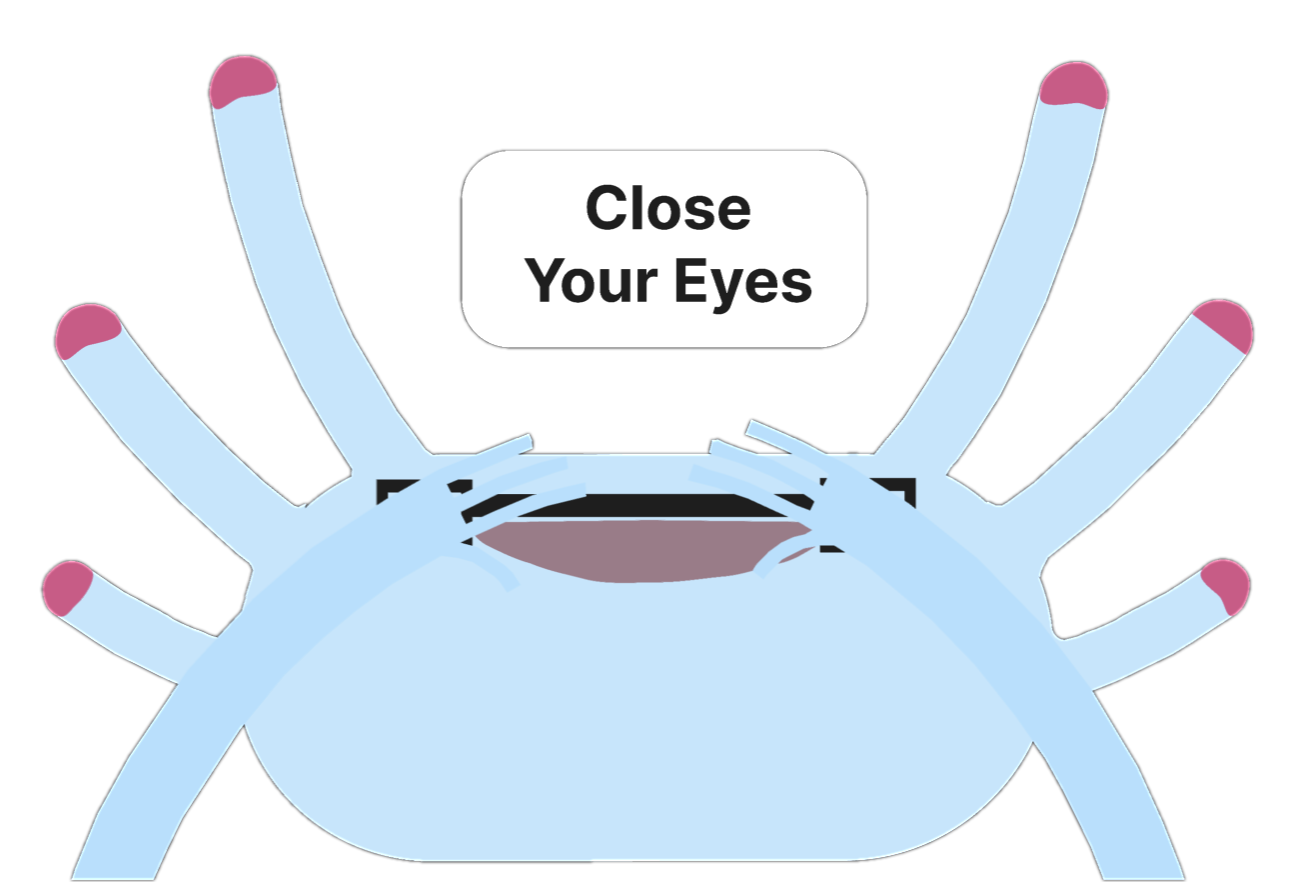
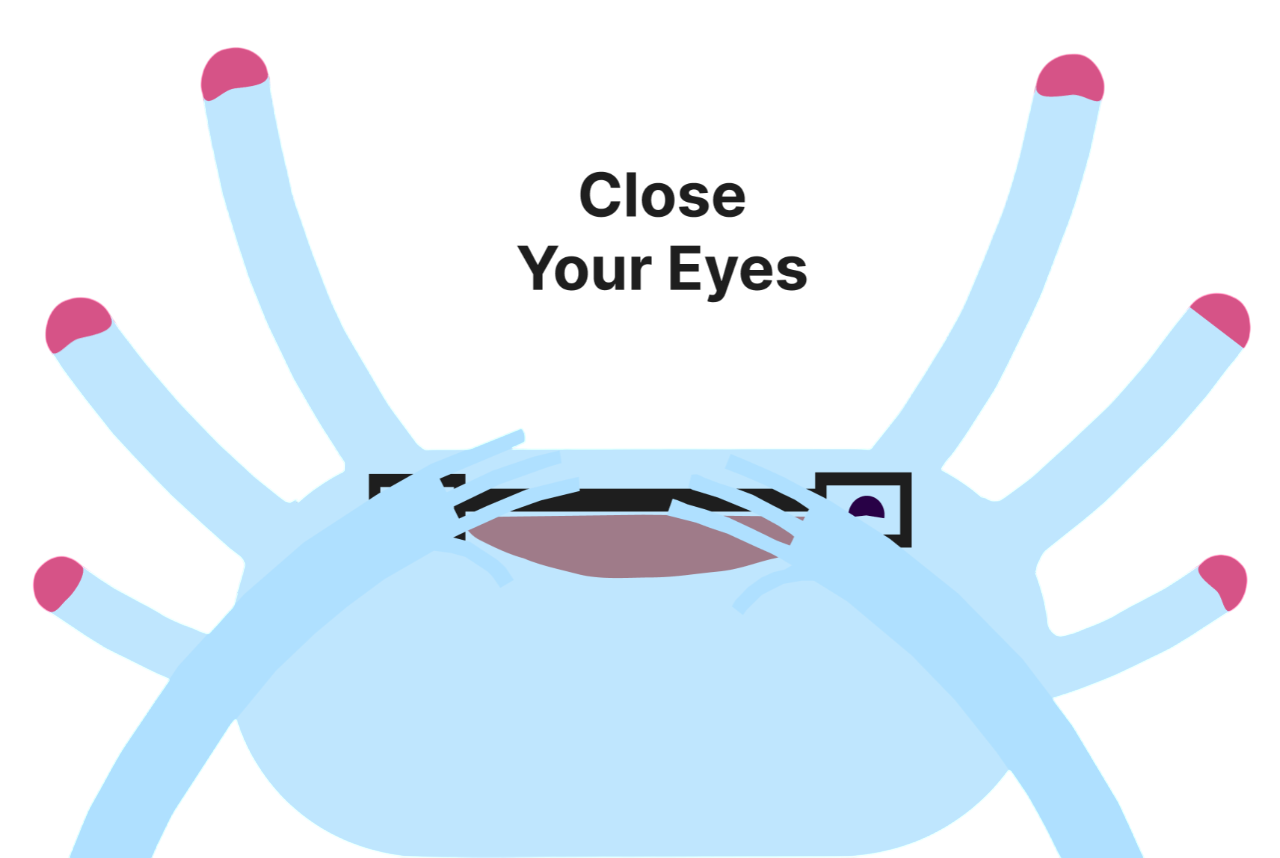
Сentralize reset handling and update close-eyes assets
- Replace per-atom reset logic in AppRouter with resetGameRoundStateAtom/resetGameSessionAtom and a single `resetState` option
- Update closeEyesRu.png and closeEyesEng.png assets

diff --git a/src/app/router/ui/app-router.tsx b/src/app/router/ui/app-router.tsx
@@ -9,18 +9,9 @@ import {
   MIN_PLAYERS_TO_START_GAME,
   setupSelectedPackIdAtom,
   setupSelectedPlayerIdsAtom,
-  setupStepAtom,
 } from "@/shared/store/setupAtoms";
-import {
-  gameActiveQuestionIdAtom,
-  gameIsExitModalOpenAtom,
-  gameOpenedQuestionIdsAtom,
-  gameRound2UnlockedAtom,
-  gameRound2StartPickerIdAtom,
-  gameQuestionFlowStateAtom,
-} from "@/shared/store/gameAtoms";
-import { resetRoundSpecialMapsAtom } from "@/shared/store/specialCIBAtom";
-import { resetAuctionStateAtom } from "@/shared/store/specialAuctionAtom";
+import { gameRound2UnlockedAtom } from "@/shared/store/gameAtoms";
+import { resetGameRoundStateAtom, resetGameSessionAtom } from "@/shared/store/reset-game-session";
 import {
   ROUTE_PATH,
   coerceRoute,
@@ -31,8 +22,7 @@ import {
 
 type NavigateOptions = {
   replace?: boolean;
-  resetQuestionState?: boolean;
-  resetSetupStep?: boolean;
+  resetState?: "none" | "round" | "session";
   round2Access?: "lock" | "unlock" | "keep";
 };
 
@@ -50,32 +40,8 @@ export function AppRouter() {
   const [route, setRoute] = useState<AppRoute>(
     () => getInitialRoute(window.location.pathname, isRound2Unlocked, canEnterGame),
   );
-  const setActiveQuestionId = useSetAtom(gameActiveQuestionIdAtom);
-  const setOpenedQuestionIds = useSetAtom(gameOpenedQuestionIdsAtom);
-  const setQuestionFlowState = useSetAtom(gameQuestionFlowStateAtom);
-  const setIsExitModalOpen = useSetAtom(gameIsExitModalOpenAtom);
-  const setRound2StartPickerId = useSetAtom(gameRound2StartPickerIdAtom);
-  const resetRoundSpecialMaps = useSetAtom(resetRoundSpecialMapsAtom);
-  const resetAuctionState = useSetAtom(resetAuctionStateAtom);
-  const setSetupStep = useSetAtom(setupStepAtom);
-
-  const resetQuestionRoundState = useCallback(() => {
-    setActiveQuestionId(null);
-    setOpenedQuestionIds([]);
-    setQuestionFlowState(null);
-    setIsExitModalOpen(false);
-    setRound2StartPickerId(null);
-    resetRoundSpecialMaps();
-    resetAuctionState();
-  }, [
-    resetAuctionState,
-    resetRoundSpecialMaps,
-    setActiveQuestionId,
-    setIsExitModalOpen,
-    setOpenedQuestionIds,
-    setQuestionFlowState,
-    setRound2StartPickerId,
-  ]);
+  const resetGameRoundState = useSetAtom(resetGameRoundStateAtom);
+  const resetGameSession = useSetAtom(resetGameSessionAtom);
 
   useEffect(() => {
     const handlePopState = () => {
@@ -120,12 +86,10 @@ export function AppRouter() {
       canEnterGame,
     });
 
-    if (options?.resetQuestionState) {
-      resetQuestionRoundState();
-    }
-
-    if (options?.resetSetupStep) {
-      setSetupStep("players");
+    if (options?.resetState === "session") {
+      resetGameSession();
+    } else if (options?.resetState === "round") {
+      resetGameRoundState();
     }
 
     if (nextIsRound2Unlocked !== isRound2Unlocked) {
@@ -143,19 +107,18 @@ export function AppRouter() {
     }
 
     setRoute(guardedRoute);
-  }, [canEnterGame, isRound2Unlocked, resetQuestionRoundState, route, setIsRound2Unlocked, setSetupStep]);
+  }, [canEnterGame, isRound2Unlocked, resetGameRoundState, resetGameSession, route, setIsRound2Unlocked]);
 
   if (route === "game") {
     return (
       <GamePage
         onExitToSetup={() => navigateTo("setup", {
           round2Access: "lock",
-          resetQuestionState: true,
-          resetSetupStep: true,
+          resetState: "session",
         })}
         onRoundTransitionConfirm={() => navigateTo("game2r", {
           replace: true,
-          resetQuestionState: true,
+          resetState: "round",
           round2Access: "unlock",
         })}
       />
@@ -167,12 +130,11 @@ export function AppRouter() {
       <GamePage2R
         onExitToSetup={() => navigateTo("setup", {
           round2Access: "lock",
-          resetQuestionState: true,
-          resetSetupStep: true,
+          resetState: "session",
         })}
         onRoundTransitionConfirm={() => navigateTo("finalprepairing", {
           replace: true,
-          resetQuestionState: true,
+          resetState: "round",
           round2Access: "unlock",
         })}
       />
@@ -188,8 +150,7 @@ export function AppRouter() {
         })}
         onExitToSetup={() => navigateTo("setup", {
           round2Access: "lock",
-          resetQuestionState: true,
-          resetSetupStep: true,
+          resetState: "session",
         })}
       />
     );
@@ -204,8 +165,7 @@ export function AppRouter() {
         })}
         onExitToSetup={() => navigateTo("setup", {
           round2Access: "lock",
-          resetQuestionState: true,
-          resetSetupStep: true,
+          resetState: "session",
         })}
       />
     );
@@ -216,8 +176,7 @@ export function AppRouter() {
       <FinalCloseEyesPage
         onExitToSetup={() => navigateTo("setup", {
           round2Access: "lock",
-          resetQuestionState: true,
-          resetSetupStep: true,
+          resetState: "session",
         })}
       />
     );
@@ -225,6 +184,6 @@ export function AppRouter() {
 
   return <SetupPage onStartGame={() => navigateTo("game", {
     round2Access: "lock",
-    resetQuestionState: true,
+    resetState: "session",
   })} />;
 }